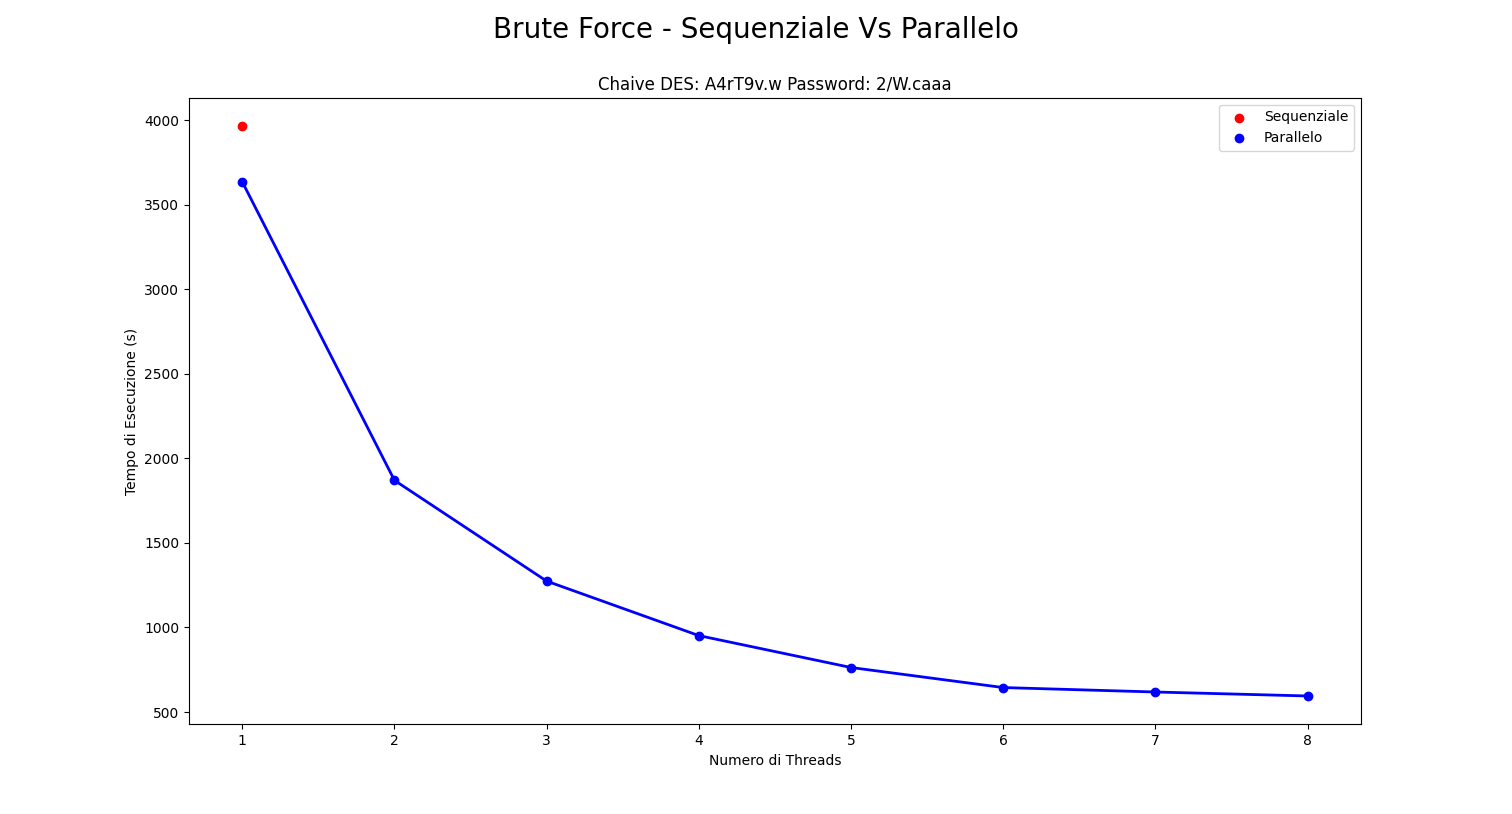
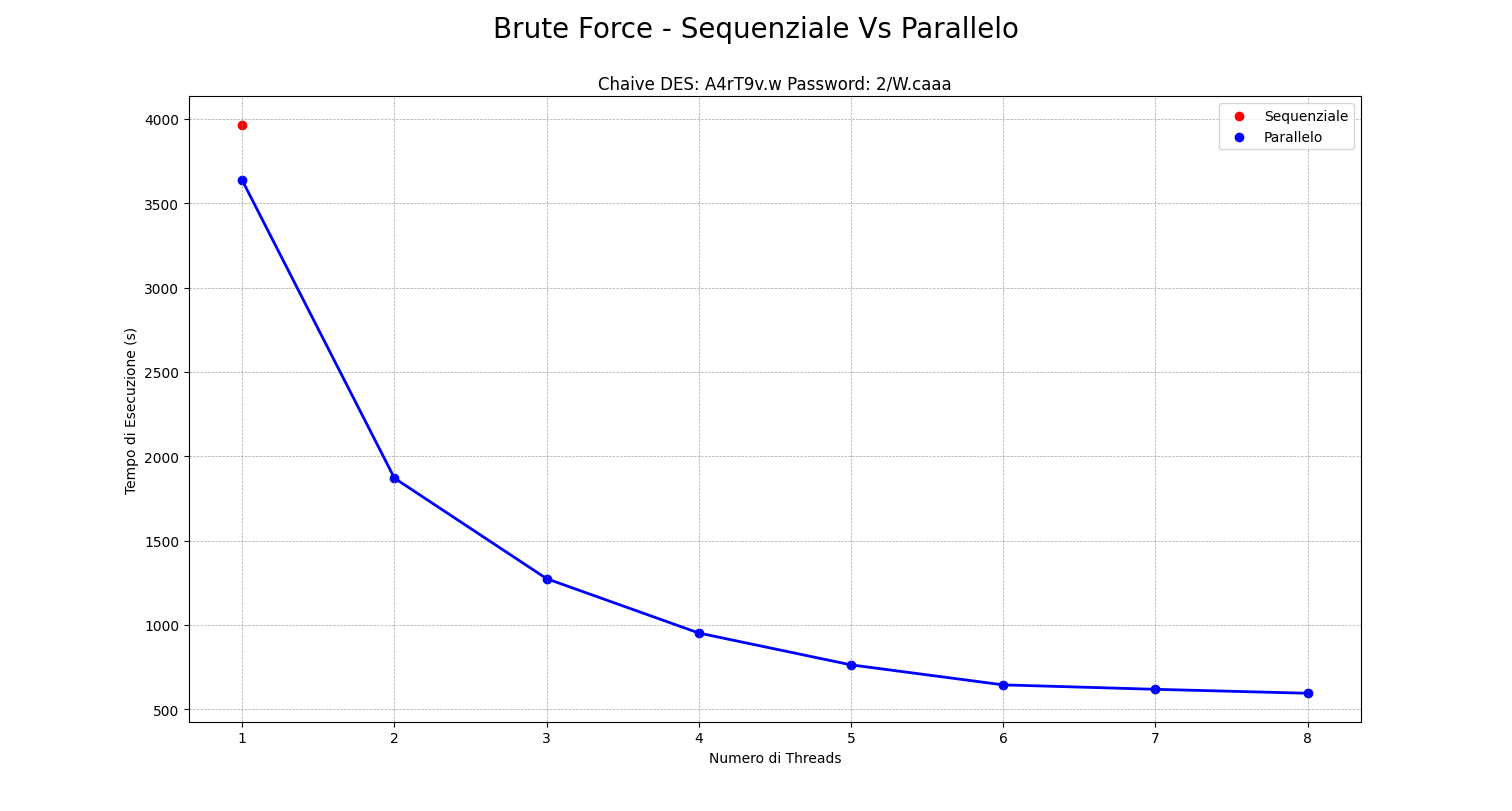
Fix

diff --git a/MidTermExam/Results/results.py b/MidTermExam/Results/results.py
@@ -2,18 +2,22 @@ import matplotlib.pyplot as plt
 
 def sequenziale_parallelo_8():
     #MAC
-    #num_threads = [1, 2, 3, 4, 5, 6, 7, 8]
-    #tempo_esecuzione_sequenziale = [3964.3]
-    #tempo_esecuzione_parallelo = [3635.43, 1870.2, 1274.33, 952.182, 763.445, 644.883, 618.588, 595.119]
-    num_threads = [1, 2, 3, 4, 5, 6, 7, 8, 9, 10, 11, 12, 13, 14, 15, 16, 17, 18, 19, 20, 21, 22, 23, 24, 25, 26, 27, 28, 29, 30, 31, 32]
+    num_threads = [1, 2, 3, 4, 5, 6, 7, 8]
     tempo_esecuzione_sequenziale = [3964.3]
-    tempo_esecuzione_parallelo = [4461.75, 2236.64, 1493.41, 1124.49, 901.942, 756.772, 649.167, 594.315, 521.07, 469.617, 434.817, 398.885, 373.993, 349.434, 327.47, 309.461, 286.749, 279.44, 268.801, 250.751, 236.494, 235.226, 219.68, 215.853, 209.417, 199.965, 194.025, 186.961, 184.563, 174.373, 171.084, 164.497]
+    tempo_esecuzione_parallelo = [3635.43, 1870.2, 1274.33, 952.182, 763.445, 644.883, 618.588, 595.119]
+    
+    #LINUX
+    #num_threads = [1, 2, 3, 4, 5, 6, 7, 8, 9, 10, 11, 12, 13, 14, 15, 16, 17, 18, 19, 20, 21, 22, 23, 24, 25, 26, 27, 28, 29, 30, 31, 32]
+    #tempo_esecuzione_sequenziale = [3964.3]
+    #tempo_esecuzione_parallelo = [4461.75, 2236.64, 1493.41, 1124.49, 901.942, 756.772, 649.167, 594.315, 521.07, 469.617, 434.817, 398.885, 373.993, 349.434, 327.47, 309.461, 286.749, 279.44, 268.801, 250.751, 236.494, 235.226, 219.68, 215.853, 209.417, 199.965, 194.025, 186.961, 184.563, 174.373, 171.084, 164.497]
     plt.scatter(num_threads[0], tempo_esecuzione_sequenziale, color='red', marker='o', label='Sequenziale')
     plt.plot(num_threads[0], tempo_esecuzione_sequenziale, color='red', linestyle='-', linewidth=2)
 
 
     plt.scatter(num_threads, tempo_esecuzione_parallelo, color='blue', marker='o', label='Parallelo')
     plt.plot(num_threads, tempo_esecuzione_parallelo, color='blue', linestyle='-', linewidth=2)
+
+    plt.grid(True, linestyle='--', linewidth=0.5, color='gray', alpha=0.7)
 
     plt.suptitle('Brute Force - Sequenziale Vs Parallelo', fontsize = 20)
     plt.title('Chaive DES: A4rT9v.w Password: 2/W.caaa')
@@ -24,12 +28,14 @@ def sequenziale_parallelo_8():
 
 def speed_up_sequenziale_parallelo_8():
     #MAC
-    #num_threads = [1, 2, 3, 4, 5, 6, 7, 8]
-    #tempo_esecuzione_sequenziale = [3964.3]
-    #tempo_esecuzione_parallelo = [3635.43, 1870.2, 1274.33, 952.182, 763.445, 644.883, 618.588, 595.119]
-    num_threads = [1, 2, 3, 4, 5, 6, 7, 8, 9, 10, 11, 12, 13, 14, 15, 16, 17, 18, 19, 20, 21, 22, 23, 24, 25, 26, 27, 28, 29, 30, 31, 32]
+    num_threads = [1, 2, 3, 4, 5, 6, 7, 8]
     tempo_esecuzione_sequenziale = [3964.3]
-    tempo_esecuzione_parallelo = [4461.75, 2236.64, 1493.41, 1124.49, 901.942, 756.772, 649.167, 594.315, 521.07, 469.617, 434.817, 398.885, 373.993, 349.434, 327.47, 309.461, 286.749, 279.44, 268.801, 250.751, 236.494, 235.226, 219.68, 215.853, 209.417, 199.965, 194.025, 186.961, 184.563, 174.373, 171.084, 164.497]
+    tempo_esecuzione_parallelo = [3635.43, 1870.2, 1274.33, 952.182, 763.445, 644.883, 618.588, 595.119]
+    
+    #LINUX
+    #num_threads = [1, 2, 3, 4, 5, 6, 7, 8, 9, 10, 11, 12, 13, 14, 15, 16, 17, 18, 19, 20, 21, 22, 23, 24, 25, 26, 27, 28, 29, 30, 31, 32]
+    #tempo_esecuzione_sequenziale = [3964.3]
+    #tempo_esecuzione_parallelo = [4461.75, 2236.64, 1493.41, 1124.49, 901.942, 756.772, 649.167, 594.315, 521.07, 469.617, 434.817, 398.885, 373.993, 349.434, 327.47, 309.461, 286.749, 279.44, 268.801, 250.751, 236.494, 235.226, 219.68, 215.853, 209.417, 199.965, 194.025, 186.961, 184.563, 174.373, 171.084, 164.497]
     speed_up = []
     for parallelo in tempo_esecuzione_parallelo:
         risultato = tempo_esecuzione_sequenziale[0] / parallelo
@@ -37,6 +43,8 @@ def speed_up_sequenziale_parallelo_8():
 
     plt.scatter(num_threads, speed_up, color='red', marker='o', label='Speed-up')
     plt.plot(num_threads, speed_up, color='red', linestyle='-', linewidth=2)
+
+    plt.grid(True, linestyle='--', linewidth=0.5, color='gray', alpha=0.7)
     
     plt.suptitle('Brute Force - Speed-Up', fontsize = 20)
     plt.title('Chaive DES: A4rT9v.w Password: 2/W.caaa')
@@ -62,6 +70,8 @@ def parallelo_vs_parallelo_modificato():
     plt.scatter(num_threads, tempo_esecuzione_parallelo_modificato, color='blue', marker='o', label='parallelo_modificato')
     plt.plot(num_threads, tempo_esecuzione_parallelo_modificato, color='blue', linestyle='-', linewidth=2)
 
+    plt.grid(True, linestyle='--', linewidth=0.5, color='gray', alpha=0.7)
+
     plt.suptitle('Brute Force - Parallelo Vs Parallelo V2', fontsize = 20)
     plt.title('Chaive DES: A4rT9v.w Password: 2/W.caaa')
     plt.xlabel('Numero di Threads')
@@ -70,6 +80,6 @@ def parallelo_vs_parallelo_modificato():
     plt.show()
 
 
-#sequenziale_parallelo_8 ()
+sequenziale_parallelo_8 ()
 #speed_up_sequenziale_parallelo_8()
-parallelo_vs_parallelo_modificato()
+#parallelo_vs_parallelo_modificato()
